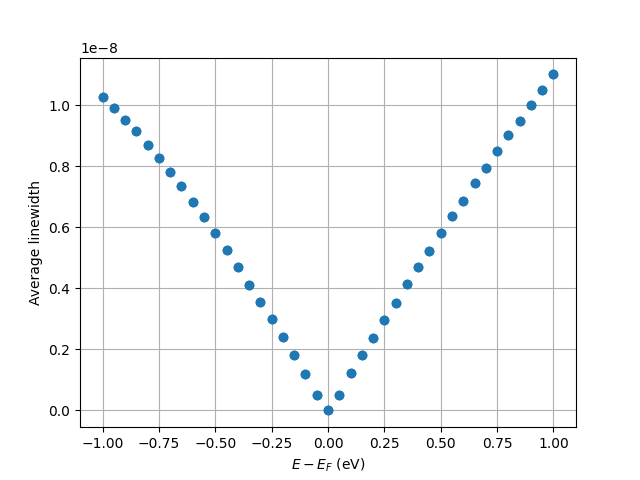
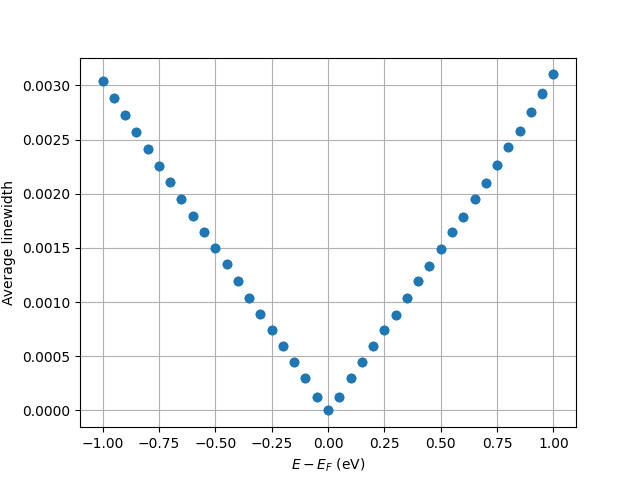
fixed bugs

diff --git a/examples/graphene_dft/6.check-Vkk.py b/examples/graphene_dft/6.check-Vkk.py
@@ -29,4 +29,33 @@ Vkk_new = scatter.get_on_kpoints(kpt_red_left=kpt_red, kpt_red_right=kpt_red)
 print(f"Wannier centers in reduced coordinates: {wannier_centers_red_spin}")
 
 diff = np.abs(Vkk_new - Vkk)
-print (f"Max difference between Vkk on kpoints and Vkk on mp grid is {diff.max():.2e} eV")  
+diffmax = diff.max()
+assert diffmax < 1e-6, f"Max difference between Vkk on kpoints and Vkk on mp grid is {diffmax:.2e} eV"  
+print (f"Max difference between Vkk on kpoints and Vkk on mp grid is {diffmax:.2e} eV")  
+
+
+
+kpt_red_left = np.array([[0,0,0.]])
+
+nk = 40
+kpt_red_right = np.array([[kx,ky,0] for kx in np.linspace(0,1,nk) for ky in np.linspace(0,1,nk)])
+
+kpt_cart_left = kpt_red_left @ wandata.chk.recip_lattice
+kpt_cart_right = kpt_red_right @ wandata.chk.recip_lattice
+
+Vkk_new = scatter.get_on_kpoints(kpt_red_left=kpt_red_left, kpt_red_right=kpt_red_right)
+
+from matplotlib import pyplot as plt
+fig, ax = plt.subplots(4,4, figsize=(12,12))
+for i in range(4):
+    for j in range(4):
+        ax[i,j].scatter(kpt_cart_right[:,0], kpt_cart_right[:,1], c=Vkk_new[0,:, i,j].real, s=5)
+        ax[i,j].set_title(f"Vkk[{i},{j}]")
+        ax[i,j].scatter(kpt_cart_left[:,0], kpt_cart_left[:,1], c='red', s=50, marker='x')
+        # colorbar
+        plt.colorbar(ax[i,j].collections[0], ax=ax[i,j])
+
+        
+plt.tight_layout()
+plt.savefig("Vkk.png")
+                       

diff --git a/integrateFermi/rvectors.py b/integrateFermi/rvectors.py
@@ -26,8 +26,11 @@ class Rvectors2(Rvectors):
         Computes the inverse Fourier transform:
         V_{ab}(k, k') = Σ_{R,R'} e^{ik·R} V_ab^{RR'} e^{-ik'·R'}
         """
-        exp_left = np.exp(2j * np.pi * self.iRvec @ kpt_red_left.T)
-        exp_right = np.exp(-2j * np.pi * self.iRvec @ kpt_red_right.T)
+        dim_k_left = kpt_red_left.shape[1]
+        dim_k_right = kpt_red_right.shape[1]
+        # print (f"RR_to_kk: AA_RR shape {AA_RR.shape}, kpt_red_left shape {kpt_red_left.shape}, kpt_red_right shape {kpt_red_right.shape}")
+        exp_left = np.exp(2j * np.pi * self.iRvec[:, :dim_k_left] @ kpt_red_left.T)
+        exp_right = np.exp(-2j * np.pi * self.iRvec[:, :dim_k_right] @ kpt_red_right.T)
         return cached_einsum('Rk, Rr..., rq->kq...', exp_left, AA_RR, exp_right)
 
 
@@ -69,7 +72,7 @@ class Rvectors2(Rvectors):
                     ic = 0 if self.nshifts_left == 1 else c
                     ishift1 = self.shift_index[ic, ia]
                     ishift2 = self.shift_index[ic, ib]
-                    print(f"a,b,c = {a},{b},{c} : {ishift1}, {ishift2}")
+                    # print(f"a,b,c = {a},{b},{c} : {ishift1}, {ishift2}")
                     for iRi1, iRm1, nd1 in zip(self.iRvec_index_list[ishift1],
                                             self.iRvec_mod_list[ishift1],
                                             self.Ndegen_list[ishift1]):

diff --git a/integrateFermi/scattering_matrix.py b/integrateFermi/scattering_matrix.py
@@ -292,8 +292,7 @@ class ScatteringMatrix:
         v = self.multipole_eigenvectors
         e = self.multipole_eigenvalues
 
-        exp = np.exp(-2j * np.pi * cached_einsum('Ri,kj->Rk',
-                     self.rvec.iRvec, kpoints))
+        exp = np.exp(-2j * np.pi * self.rvec.iRvec[:,:2] @ kpoints.T)
         W = cached_einsum('lRa, Rk, ka -> lk', v, exp, wavefunctions)
         vertex = cached_einsum('lk, k, mk , m-> lm', W.conj(), weight, W, e)
         projector = cached_einsum('lk, mk, m -> klm', W.conj(), W, e)

diff --git a/examples/graphene_dft/2.scatter_contours.py b/examples/graphene_dft/2.scatter_contours.py
@@ -26,6 +26,8 @@ scatter = ScatteringMatrix.from_Vkk(Vkkmn_wan=Vkk,
                                     wannier_centers_red=system.wannier_centers_red,
 )
 
+print (f"scatter iRvec shape: {scatter.rvec.iRvec.shape}")
+
 scatter.get_Vkk_on_contours_all(contours_db=db)
 
 scatter.get_multipole_on_contours_all(contours_db=db)